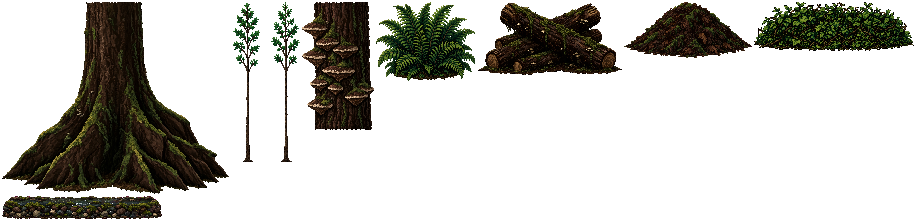
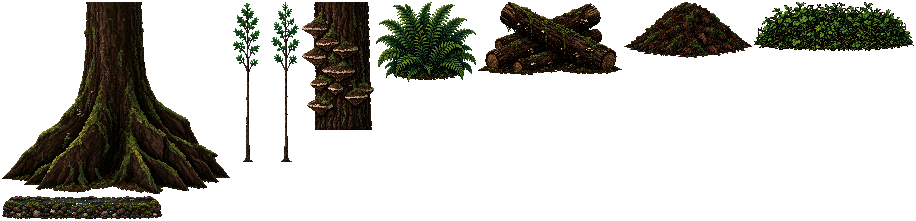
feat: borde white para el fleco blanco de l5_suelo, el charco y los cristales (S50)
Claude-Session: https://claude.ai/code/session_01MNHdU42mPpRWC7wSca6f2H

diff --git a/tests/spritePipeline.test.ts b/tests/spritePipeline.test.ts
@@ -259,6 +259,26 @@ describe('sprite pipeline', () => {
     expect(EDGE_COLORS.chroma(110, 50, 200)).toBe(false);
   });
 
+  it('white borra el fleco blanco y gris neutro, no la madera encalada, el crema de los hongos ni el agua (S50)', () => {
+    expect(EDGE_COLORS.white(235, 235, 235)).toBe(true);
+    expect(EDGE_COLORS.white(170, 172, 168)).toBe(true);
+    expect(EDGE_COLORS.white(230, 215, 190)).toBe(false);
+    expect(EDGE_COLORS.white(220, 190, 150)).toBe(false);
+    expect(EDGE_COLORS.white(170, 205, 240)).toBe(false);
+    expect(EDGE_COLORS.white(60, 60, 60)).toBe(false);
+  });
+
+  it('processIcon acepta una lista de bordes y los borra en orden (S50)', () => {
+    const img = createImage(6, 6) as Img;
+    fillRect(img, 1, 1, 4, 4, [240, 0, 160, 255]);
+    fillRect(img, 2, 2, 2, 2, [240, 240, 240, 255]);
+    expect(processIcon(img, { edge: ['chroma', 'white'], edgePasses: 2 })).toBeNull();
+    const keep = createImage(6, 6) as Img;
+    fillRect(keep, 1, 1, 4, 4, [240, 0, 160, 255]);
+    fillRect(keep, 2, 2, 2, 2, [40, 120, 40, 255]);
+    expect(processIcon(keep, { edge: ['chroma', 'white'], edgePasses: 2 })?.image.width).toBe(2);
+  });
+
   it('packAtlas acomoda sin solapar, deja aire y respeta el ancho máximo (S46)', () => {
     const solid = (w: number, h: number, v: number): Img => {
       const img = createImage(w, h) as Img;
